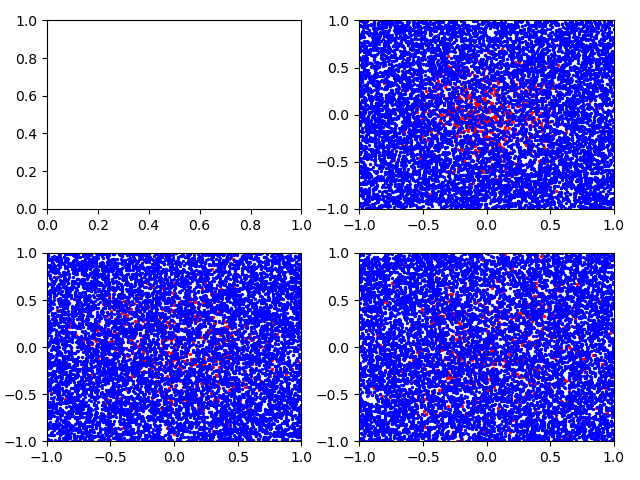
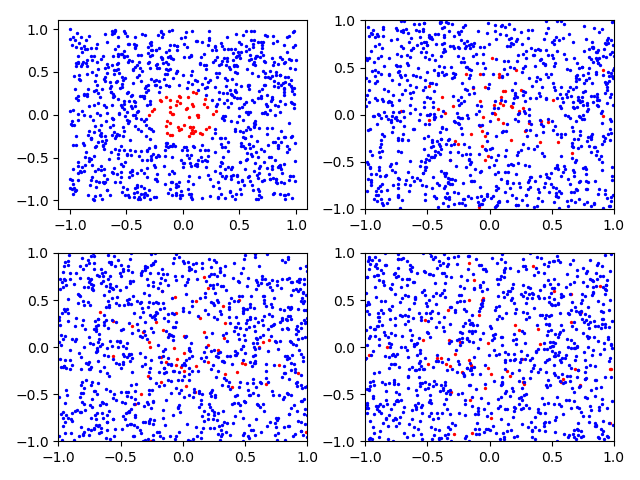
Concentration plot works

diff --git a/particle_simulation.py b/particle_simulation.py
@@ -71,6 +71,8 @@ class InitialState:
 
         self.figure.tight_layout()
 
+        self.calculate_concentration()
+
     # Creates the initial state for task B
     def taskB_initial_state(self):
 
@@ -188,7 +190,7 @@ class ConcentrationPlot(InitialState):
 
         self.taskA_initial_state()
 
-        for i in range(7):
+        for i in range(4):
             for type in self.type:
                 self.calculation(type, self.h)
 
@@ -214,12 +216,10 @@ class ConcentrationPlot(InitialState):
         self.axes1.xaxis.grid(True, linestyle='--', which='minor')
 
 
-
     def calculate_concentration(self):
         
         # Populate a "grid" with zeros
         grid_list = []
-        n_sub_1 = 0
 
         grid_position = lambda x, y, i, j: x > self.x_grid[i] and x < self.x_grid[i+1] and y > self.y_grid[j] and y < self.y_grid[j+1]
 
@@ -228,6 +228,8 @@ class ConcentrationPlot(InitialState):
 
         for i in range(len(self.x_grid)):
             for j in range(len(self.y_grid)):
+
+                n_sub_1 = 0
                 
                 for particle in self.sub_1:
                     # Check corner
@@ -250,19 +252,20 @@ class ConcentrationPlot(InitialState):
         print(grid_list)
 
         self.figure1.savefig('diagram/grid_plot.png')
+        plt.show()
 
     def heatmap2d(self,arr: np.ndarray):
         plt.imshow(arr, cmap='viridis')
         plt.colorbar()
-        plt.show()
 
 
 
 concentration_plot = ConcentrationPlot()
-initial_state = InitialState()
+#initial_state = InitialState()
+#print(concentration_plot.Np)
+concentration_plot.single_plot()
+concentration_plot.calculate_concentration()
 
-initial_state.call_out_taskA()
-plt.show()
-#concentration_plot.single_plot()
+
 #concentration_plot.calculate_concentration()
 #plt.show()
